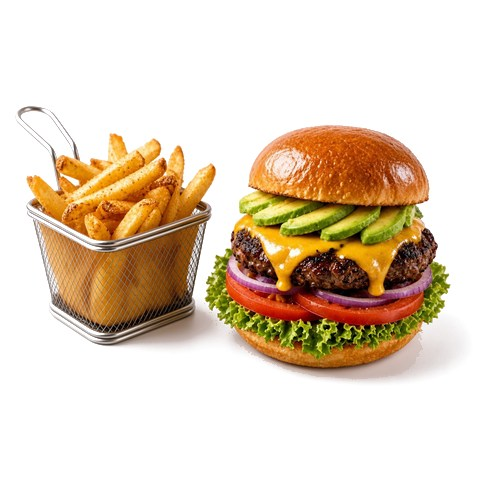
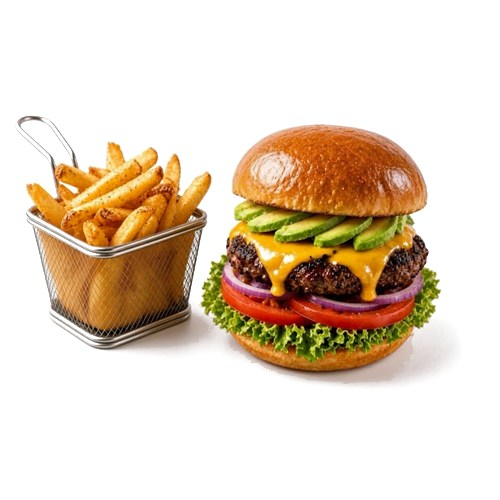
Nouvelle photo du Mexicain
Source 1364x768, ramenee au meme carre de 500x500 que les onze autres.
Cache du service worker : bg76-v43

Changed region(s): [[0.03, 0.21, 0.9, 0.78], [0.3, 0.54, 0.33, 0.57]]

diff --git a/sw.js b/sw.js
@@ -1,6 +1,6 @@
 // Service worker — Burger Grill 76 Caisse
 // Permet l'installation en application et le fonctionnement hors-ligne.
-const CACHE = 'bg76-v42';
+const CACHE = 'bg76-v43';
 const ASSETS = ['./', './index.html', './manifest.json', './icon-192.png', './icon-512.png', './icon-180.png', './logo.png', './photos/cat-burgers.webp'];
 
 self.addEventListener('install', e => {
